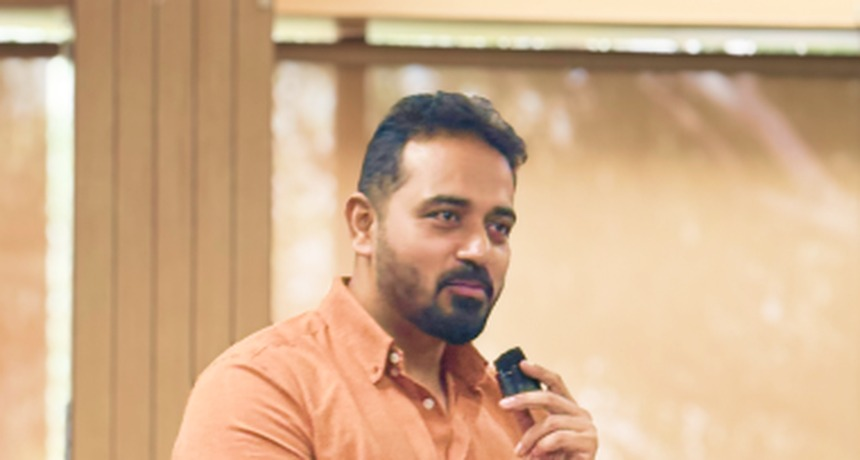
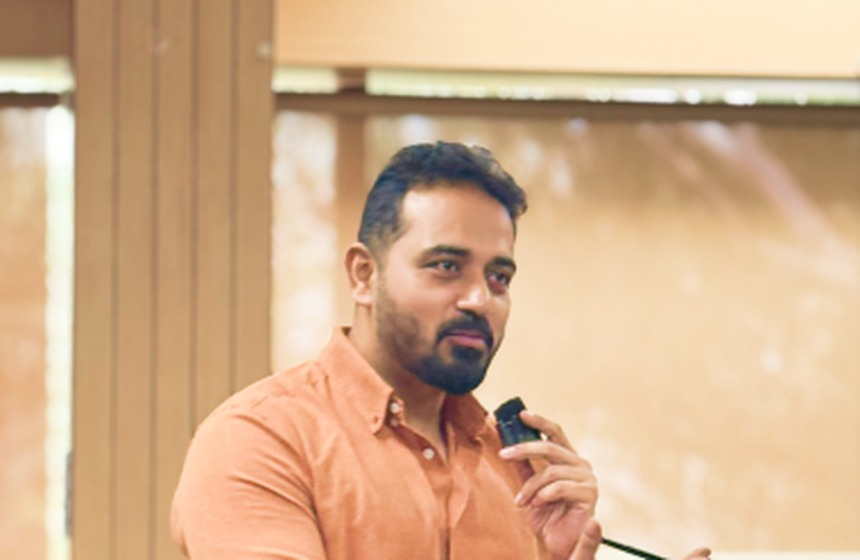
Add files via upload

diff --git a/team.html b/team.html
@@ -159,7 +159,7 @@
     <!-- Leadership: Tanmay Jain -->
     <div class="leader-card reveal reveal-d1">
       <div class="leader-hero">
-        <img src="assets/images/tanmay-jain-wide.jpg" alt="Tanmay Jain, PhD, Founder and Chief Scientist of Tacticity Advisors" width="860" height="460" loading="lazy" decoding="async">
+        <img src="assets/images/tanmay-jain-wide.jpg" alt="Tanmay Jain, PhD, Founder and Chief Scientist of Tacticity Advisors" width="860" height="560" loading="lazy" decoding="async">
         <div class="leader-hero-overlay">
           <p class="leader-name">Tanmay Jain, PhD</p>
           <p class="leader-role">Founder &amp; Chief Scientist<br>Former U.S. FDA CDRH Scientist &amp; Lead Reviewer</p>
@@ -171,7 +171,7 @@
     <!-- Leadership: Utkarsh Jain -->
     <div class="leader-card reveal reveal-d2">
       <div class="leader-hero">
-        <img src="assets/images/utkarsh-jain-wide.jpg" alt="Utkarsh Jain, Chief Financial Officer of Tacticity Advisors" width="860" height="460" loading="lazy" decoding="async">
+        <img src="assets/images/utkarsh-jain-wide.jpg" alt="Utkarsh Jain, Chief Financial Officer of Tacticity Advisors" width="860" height="560" loading="lazy" decoding="async">
         <div class="leader-hero-overlay">
           <p class="leader-name">Utkarsh Jain</p>
           <p class="leader-role">Chief Financial Officer</p>

diff --git a/styles.css b/styles.css
@@ -1104,7 +1104,7 @@ body.bg-pathway, body.bg-lattice, body.bg-docs, body.bg-evidence, body.bg-newsle
 .leader-card { border: 1px solid var(--border); margin-bottom: 2.75rem; overflow: hidden; transition: box-shadow .25s var(--ease); }
 .leader-card:last-of-type { margin-bottom: 0; }
 .leader-card:hover { box-shadow: 0 18px 38px rgba(23,23,26,.07); }
-.leader-hero { position: relative; width: 100%; height: 460px; overflow: hidden; }
+.leader-hero { position: relative; width: 100%; height: 560px; overflow: hidden; }
 .leader-hero img { width: 100%; height: 100%; object-fit: cover; object-position: center center; transition: transform .6s var(--ease); }
 .leader-card:hover .leader-hero img { transform: scale(1.03); }
 .leader-hero-overlay {
@@ -1140,7 +1140,7 @@ body.bg-pathway, body.bg-lattice, body.bg-docs, body.bg-evidence, body.bg-newsle
 .advisors-grid-single .advisor-card { width: 100%; max-width: 374px; }
 
 @media (max-width: 600px) {
-  .leader-hero { height: 280px; }
+  .leader-hero { height: 340px; }
   .leader-hero-overlay { padding: 1.5rem 1.75rem; }
   .leader-name { font-size: 1.7rem; }
   .leader-role { font-size: .74rem; }
